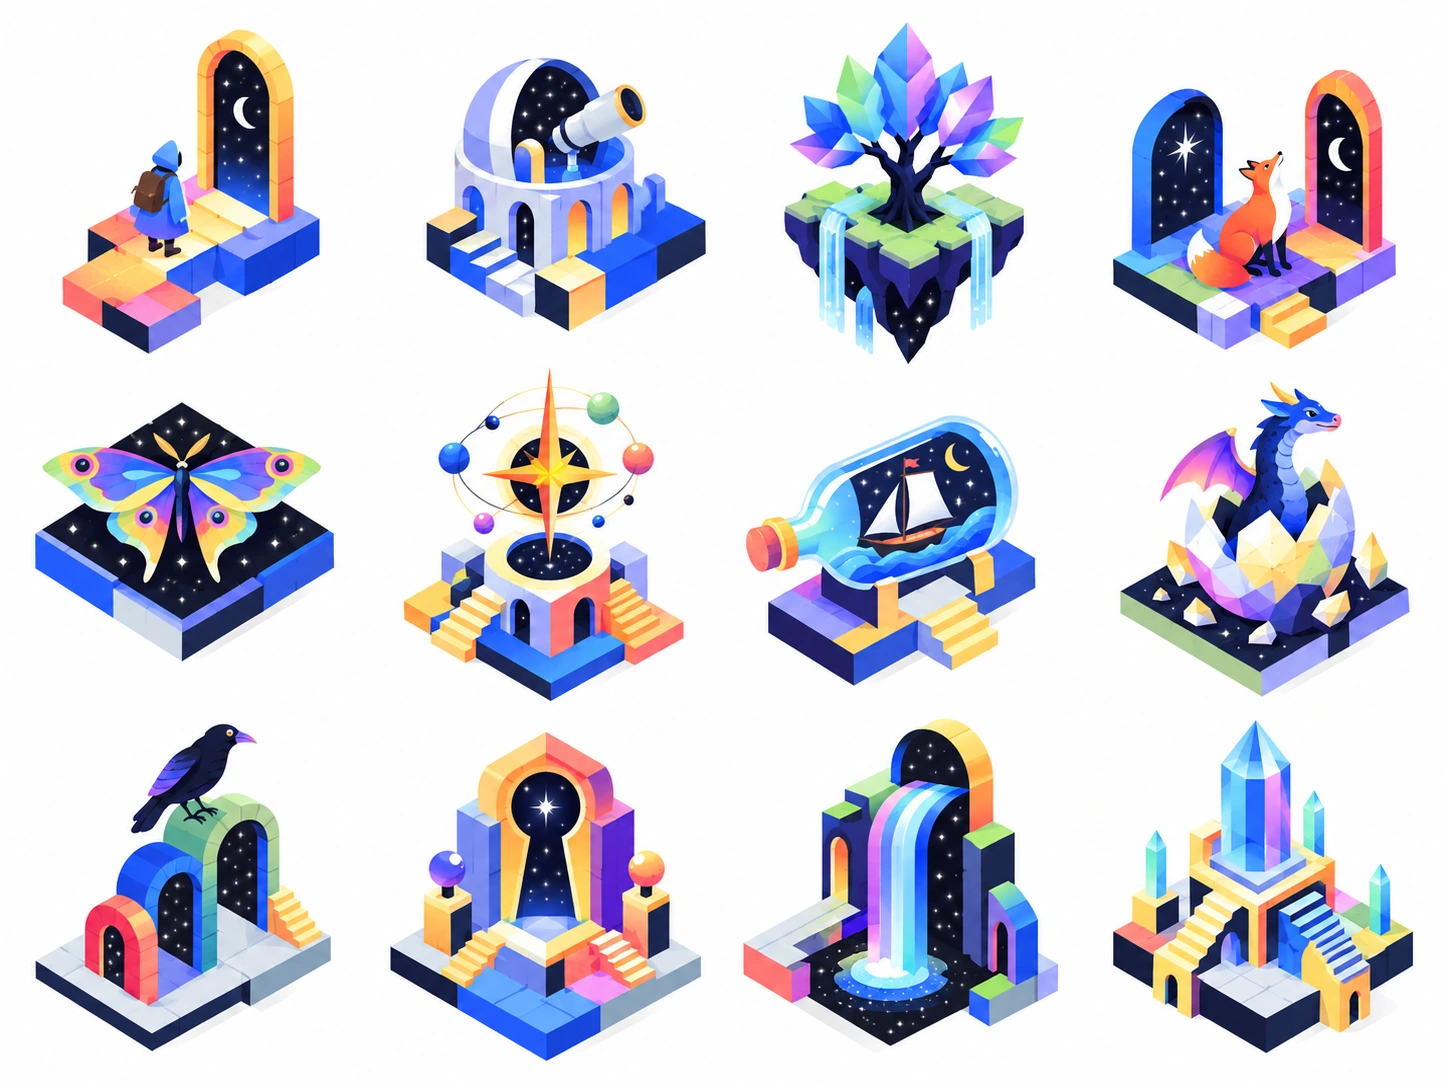
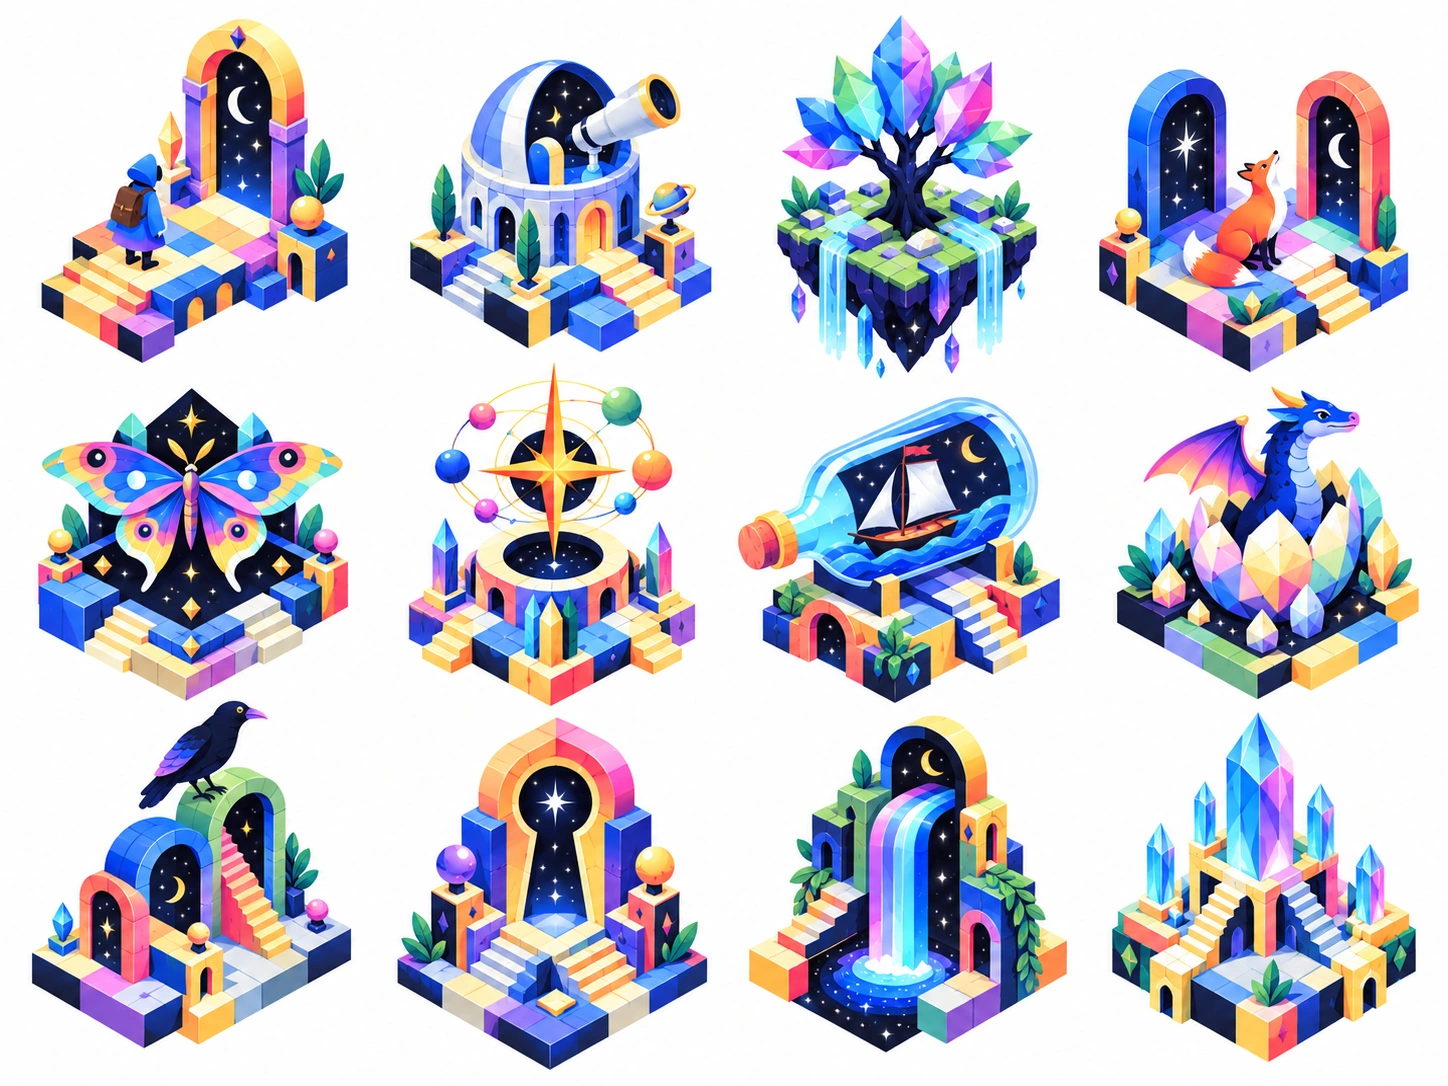
Add detail and color to Storyworld examples

diff --git a/scripts/build_skills.py b/scripts/build_skills.py
@@ -40,7 +40,7 @@ STYLES = [
     ("colorcut", "soft-edged colorful vector glyph", "one small compact pictogram built from two to five rounded, irregular interlocking color shapes, front-facing without perspective", "mostly flat digital fills, softly blended overlap edges, occasional clipped edge, hole or inset; no physical paper texture, stroke or grounding shadow", "bright cobalt, leaf green, vermilion, pink, orange and pale lime; limit each glyph to two or three hues", "large logo-like scale, hard flat SVG edges, physical paper grain, black outlines, glossy 3D, realism, uniform rainbow fill, lettering, or a pictogram inside a card"),
     ("hologram", "opalescent faceted vector-3D illustration", "compact floating icon built from a handful of broad beveled planes, subtly tilted in three-quarter view, small clear silhouette and faint ground shadow", "crisp facet boundaries with restrained cyan-lavender-peach-gold refraction on selected faces, narrow pale edge glints, only occasional pin-size star glint; light from above-left", "powder cyan and lavender dominate, with blush-peach and small golden reflections over very pale mint", "gold wireframe outlines, densely tessellated jewel surfaces, realistic metal, microtexture, huge glow, all-over rainbow, physical controls, dark shadows, or large product renders"),
     ("nightfall", "matte painted editorial spot illustration", "small tilted or floating vignette on a solid deep-slate field; one expressive subject with no more than one related prop or motion flourish", "rounded softly beveled shapes, restrained hand-painted gradients and very light pigment grain, gentle upper-left light; sparse cloud fragments or tiny sparkles", "coral-peach, pale sky blue, grass green, warm orange and sunflower yellow against dark blue-charcoal #2B424A", "white card backgrounds, realistic surface detail, dead-center product renders, glossy plastic, neon effects, hard black outlines, full environments, or crowded props"),
-    ("storyworld", "fantastical isometric storybook diorama illustration", "one surreal narrative hero or tiny architectural world arranged as a self-contained vignette; use a precise 30-degree isometric view for platforms and structures, with sculptural characters or objects integrated into the scene", "crisp vector-like facets, hard-edged geometric planes, bold colored side faces, selective luminous gradients on portals or magical forms, deep midnight-navy starfield openings, tiny white stars, and a clean compact cast shadow", "electric cobalt and royal blue, violet and magenta, warm lemon yellow, coral red, mint and lime; set glowing color against deep navy voids and generous white space", "uniform gray 3D renders, soft toy materials, thin technical wireframes, broad painterly backgrounds, realistic landscapes, dense clutter, tiny illegible surface detail, or generic emoji treatment"),
+    ("storyworld", "color-rich fantastical isometric storybook diorama illustration", "one surreal narrative hero or tiny architectural world arranged as a self-contained vignette; use precise 30-degree isometric geometry for platforms and structures, and build the hero from several distinct, legible forms and accents", "crisp vector-like facets, hard-edged planes, clearly separated colored side faces, stepped edges and small inset details; selective luminous gradients on portals or magical forms, deep midnight-navy starfield openings, tiny white stars, and a clean compact cast shadow", "a vivid multi-hue palette in each scene: electric cobalt, royal blue, violet, magenta, lemon yellow, coral red, mint, lime and occasional orange; use several colors in balanced patches, with dark navy cavities for contrast and generous white around the scene", "monochrome blue-and-yellow scenes, broad areas of a single color, uniform gray 3D renders, soft toy materials, thin technical wireframes, broad painterly backgrounds, realistic landscapes, random decorative clutter, tiny illegible surface detail, or generic emoji treatment"),
 ]
 
 SITE_SAMPLES = {style[0]: f"assets/generated/{style[0]}.webp" for style in STYLES}
@@ -52,7 +52,7 @@ USER_STYLE_NOTES = {
     "colorcut": "Reference sheet 1: twenty very small glyphs in an open four-column grid on warm ivory. Keep each glyph modest inside its cell, surrounded by conspicuous space. Stand-alone pictograms use two to five soft, organic vector pieces that interlock like simple cutouts; this is digital illustration, not textured craft paper. Some edges gently blend or overlap; a clipped edge, hole or inset can identify the object. No contour stroke, grounding shadow or extra decoration. The colors are vivid but friendly and usually limited to two or three hues per symbol. Match the visual grammar, never the reference subjects.",
     "hologram": "Reference sheet 2: fifteen technology and finance icons in a tidy 5-by-3 layout on very pale mint. Each is a small clean silhouette made from a handful of broad, beveled faceted surfaces, with clear transitions between planes. Opalescent cyan and lavender dominate; peach and gold are selective face reflections, not outlines. Add slender pale edge glints, upper-left lighting, a faint short shadow underneath and only a rare pin-size star. Keep moderate contrast and visible object color. This differs from gold-framed Gloss and pale frosted Glass: avoid wireframes, dense jewel tessellation, oversized glow and broad rainbow wash. Match the grammar, never the reference subjects.",
     "nightfall": "Reference sheet 3: twenty-four isolated editorial vignettes in a regular 4-by-6 arrangement on uniform deep slate. Every small vignette has one expressive object and at most one related prop or motion flourish. Use lively tilt, hover, spring, pour or growth. Rounded matte forms have gentle bevels, restrained hand-painted gradients and a lightly painted finish; they are neither flat monochrome nor glossy plastic. Peach, coral, pale blue, green, orange and yellow stand out clearly against the slate. A few vignettes use short pale cloud fragments or tiny sparkles. Keep generous dark negative space and never place items in framed cards or detailed scenes.",
-    "storyworld": "Reference sheet 4: a collection of isolated, imaginative miniature worlds on pure white, spaced far apart with no cards or borders. Each vignette is a tiny narrative moment, not merely a single product icon: examples of the visual grammar include a person crossing a luminous threshold, paired hands emerging from portals, an hourglass suspended in a starry cabinet, an animal framed by a night-sky arch, a vividly patterned butterfly on a dark platform, a large lock on a blue plinth, a cloud creature in an open box, a potion vessel, or a bird perched on colorful architectural forms. Never reuse these exact subjects; invent varied storybook symbols. Use crisp 30-degree isometric construction for bases and architecture, with clearly thick platforms, visible top and side planes, stepped edges, and sharp geometry. Some vignettes stand on a small square or diamond stage; others use an arch, open box, portal, or suspended object as the frame. Let each hero be large and immediately readable, supported by only a few deliberate details. A deep navy or near-black interior void with tiny white stars is a recurring magical contrast, but reserve it for openings and selected objects. Use saturated cobalt, royal blue, violet, magenta, lemon yellow, coral, mint and lime in distinct hard-edged planes; allow a few narrow gradients on glowing portals and facets. Small round numbered medallions sometimes sit on the front corner of a stage as a collectible-world detail. Lighting and shadows stay crisp and compact. Preserve abundant white negative space; no full environment, scenery, cards, borders, or repeated layout grid inside an individual vignette.",
+    "storyworld": "Reference sheet 4: a collection of isolated, imaginative miniature worlds on pure white, spaced far apart with no cards or borders. Each vignette is a tiny narrative moment, not merely a single product icon. Use varied storybook symbols, never the reference's exact subjects. Build crisp 30-degree isometric bases and architecture with thick platforms, visible top and side planes, stepped edges, and sharp geometry. Some vignettes stand on a small stage; others use an arch, open box, portal, or suspended object as their frame. Make each hero large and immediately readable, then add a second layer of authored detail: small tiles, stripes, cutouts, ribs, dotted or leaf-like patterns, star specks, inlaid panels, colored trim, tiny steps, or one small supporting prop. Details should clarify the fantasy construction and remain visible at icon size, not become surface noise. A deep navy or near-black interior void with tiny white stars is a recurring magical contrast, reserved for selected openings and objects. Use a richer, more balanced mix of saturated cobalt, royal blue, violet, magenta, lemon yellow, coral, mint, lime and occasional orange within each scene; vary the leading hue between vignettes and combine several distinct color patches instead of defaulting to blue-and-yellow. Gradients belong only on glowing portals and selected facets. Small round collectible medallions may sit on a stage corner. Keep shadows crisp and compact, with abundant white negative space; no full environment, scenery, cards, borders, or repeated layout grid inside an individual vignette.",
 }
 
 NATIVE_BACKGROUNDS = {
@@ -74,7 +74,7 @@ def render(style):
         "colorcut": "Keep an individual glyph compact, centered, and simple enough to read at 64 px; preserve clear empty space around it.",
         "hologram": "Keep the icon compact and its broad facets readable at 64 px; avoid tiny facet lines and oversize glow.",
         "nightfall": "Keep the vignette compact and expressive at 96 px; preserve a clear dark margin around every shape.",
-        "storyworld": "Check the complete story vignette at 128 px; keep its hero readable, isometric stage edges crisp, and any starfield confined to the intended void.",
+        "storyworld": "Check the complete story vignette at 128 px; keep its hero readable, isometric stage edges crisp, 2–4 structural details distinct, several palette colors clearly visible, and any starfield confined to the intended void.",
     }.get(name, "Make the silhouette unmistakable at 64 px.")
     review = "Review against the user's reference notes" if name in USER_STYLE_NOTES else "Review against the four style references"
     native_background = NATIVE_BACKGROUNDS.get(name, "pure white #FFFFFF")

diff --git a/skills/storyworld-icon/SKILL.md b/skills/storyworld-icon/SKILL.md
@@ -24,19 +24,19 @@ Only an explicit answer, including "default", advances a step. A skipped or unan
 
 ## Style lock
 
-- Medium: fantastical isometric storybook diorama illustration.
-- Form: one surreal narrative hero or tiny architectural world arranged as a self-contained vignette; use a precise 30-degree isometric view for platforms and structures, with sculptural characters or objects integrated into the scene.
-- Surface and light: crisp vector-like facets, hard-edged geometric planes, bold colored side faces, selective luminous gradients on portals or magical forms, deep midnight-navy starfield openings, tiny white stars, and a clean compact cast shadow.
-- Default color direction: electric cobalt and royal blue, violet and magenta, warm lemon yellow, coral red, mint and lime; set glowing color against deep navy voids and generous white space.
-- Avoid: uniform gray 3D renders, soft toy materials, thin technical wireframes, broad painterly backgrounds, realistic landscapes, dense clutter, tiny illegible surface detail, or generic emoji treatment, text, letters, logos, watermarks, frames, unrelated props, and busy backgrounds.
+- Medium: color-rich fantastical isometric storybook diorama illustration.
+- Form: one surreal narrative hero or tiny architectural world arranged as a self-contained vignette; use precise 30-degree isometric geometry for platforms and structures, and build the hero from several distinct, legible forms and accents.
+- Surface and light: crisp vector-like facets, hard-edged planes, clearly separated colored side faces, stepped edges and small inset details; selective luminous gradients on portals or magical forms, deep midnight-navy starfield openings, tiny white stars, and a clean compact cast shadow.
+- Default color direction: a vivid multi-hue palette in each scene: electric cobalt, royal blue, violet, magenta, lemon yellow, coral red, mint, lime and occasional orange; use several colors in balanced patches, with dark navy cavities for contrast and generous white around the scene.
+- Avoid: monochrome blue-and-yellow scenes, broad areas of a single color, uniform gray 3D renders, soft toy materials, thin technical wireframes, broad painterly backgrounds, realistic landscapes, random decorative clutter, tiny illegible surface detail, or generic emoji treatment, text, letters, logos, watermarks, frames, unrelated props, and busy backgrounds.
 
 ## Visual calibration
 
-Reference sheet 4: a collection of isolated, imaginative miniature worlds on pure white, spaced far apart with no cards or borders. Each vignette is a tiny narrative moment, not merely a single product icon: examples of the visual grammar include a person crossing a luminous threshold, paired hands emerging from portals, an hourglass suspended in a starry cabinet, an animal framed by a night-sky arch, a vividly patterned butterfly on a dark platform, a large lock on a blue plinth, a cloud creature in an open box, a potion vessel, or a bird perched on colorful architectural forms. Never reuse these exact subjects; invent varied storybook symbols. Use crisp 30-degree isometric construction for bases and architecture, with clearly thick platforms, visible top and side planes, stepped edges, and sharp geometry. Some vignettes stand on a small square or diamond stage; others use an arch, open box, portal, or suspended object as the frame. Let each hero be large and immediately readable, supported by only a few deliberate details. A deep navy or near-black interior void with tiny white stars is a recurring magical contrast, but reserve it for openings and selected objects. Use saturated cobalt, royal blue, violet, magenta, lemon yellow, coral, mint and lime in distinct hard-edged planes; allow a few narrow gradients on glowing portals and facets. Small round numbered medallions sometimes sit on the front corner of a stage as a collectible-world detail. Lighting and shadows stay crisp and compact. Preserve abundant white negative space; no full environment, scenery, cards, borders, or repeated layout grid inside an individual vignette. If this conversation still contains the user's reference sheet, use it as a style reference in an image tool that accepts conversation images. Otherwise follow these notes and the Style lock. Do not copy any subject from the sheet.
+Reference sheet 4: a collection of isolated, imaginative miniature worlds on pure white, spaced far apart with no cards or borders. Each vignette is a tiny narrative moment, not merely a single product icon. Use varied storybook symbols, never the reference's exact subjects. Build crisp 30-degree isometric bases and architecture with thick platforms, visible top and side planes, stepped edges, and sharp geometry. Some vignettes stand on a small stage; others use an arch, open box, portal, or suspended object as their frame. Make each hero large and immediately readable, then add a second layer of authored detail: small tiles, stripes, cutouts, ribs, dotted or leaf-like patterns, star specks, inlaid panels, colored trim, tiny steps, or one small supporting prop. Details should clarify the fantasy construction and remain visible at icon size, not become surface noise. A deep navy or near-black interior void with tiny white stars is a recurring magical contrast, reserved for selected openings and objects. Use a richer, more balanced mix of saturated cobalt, royal blue, violet, magenta, lemon yellow, coral, mint, lime and occasional orange within each scene; vary the leading hue between vignettes and combine several distinct color patches instead of defaulting to blue-and-yellow. Gradients belong only on glowing portals and selected facets. Small round collectible medallions may sit on a stage corner. Keep shadows crisp and compact, with abundant white negative space; no full environment, scenery, cards, borders, or repeated layout grid inside an individual vignette. If this conversation still contains the user's reference sheet, use it as a style reference in an image tool that accepts conversation images. Otherwise follow these notes and the Style lock. Do not copy any subject from the sheet.
 
 ## Generate
 
-Check the complete story vignette at 128 px; keep its hero readable, isometric stage edges crisp, and any starfield confined to the intended void. Keep the whole object or mini-scene within the central 65% of the canvas width and height, leaving generous balanced empty space. Reduce the subject to its identifying parts; omit tiny details that disappear at the intended size. Preserve the same viewpoint, scale, stroke weight or material treatment, light direction, shadow softness, and palette across a set. A solid background is a uniform field, not an app tile or surrounding scene.
+Check the complete story vignette at 128 px; keep its hero readable, isometric stage edges crisp, 2–4 structural details distinct, several palette colors clearly visible, and any starfield confined to the intended void. Keep the whole object or mini-scene within the central 65% of the canvas width and height, leaving generous balanced empty space. Reduce the subject to its identifying parts; omit tiny details that disappear at the intended size. Preserve the same viewpoint, scale, stroke weight or material treatment, light direction, shadow softness, and palette across a set. A solid background is a uniform field, not an app tile or surrounding scene.
 
 Build a prompt with the subject, every style lock above, the chosen color mapping, selected canvas, and requested background. Explicitly describe which parts of the subject get primary, secondary, and accent colors. Use the image generation tool directly. Set its transparent background option when the user wants a transparent icon. For a series, reuse the same style block word for word and change only subject anatomy and user-requested colors. Prefer individual deliverables over a contact sheet unless the user asks for a sheet.
 
